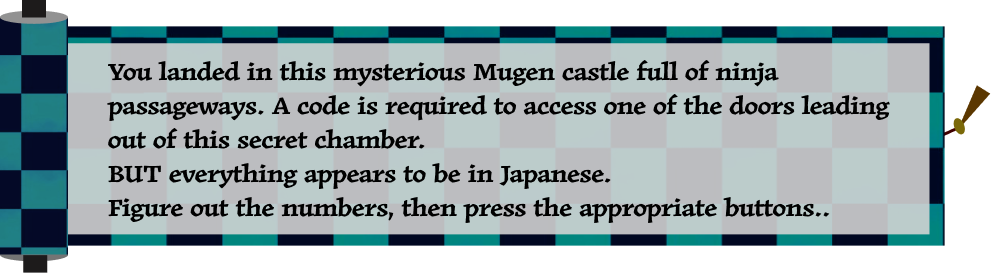
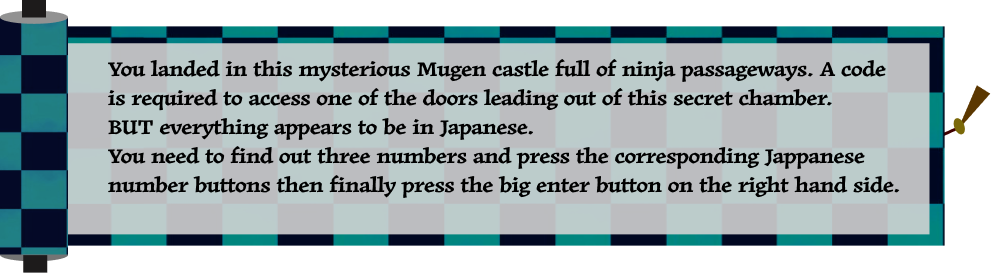
change makimono01 content. fix button styling.

Changed region(s): [[0.093, 0.2051, 0.899, 0.8205]]

diff --git a/Anna/scripts/script.js b/Anna/scripts/script.js
@@ -10,10 +10,12 @@ const firstChallengeInit = () => {
           id="number-input-field"
           class="input-field"
           type="text"
+          placeholder='type a number'
         />
         <button
           means="enter"
           id="enter-button"
+          class='enter-button'
           type="submit"
           pys-onClick="on_click_number"
         >

diff --git a/Anna/style.css b/Anna/style.css
@@ -25,9 +25,10 @@ input {
 
 .input-field {
   border-radius: 10px;
-  width: 5rem;
+  width: 12rem;
   height: 5rem;
-  font-size: 5rem;
+  font-size: 1.5rem;
+  padding-left: 1rem;
 }
 
 .enter-button {
